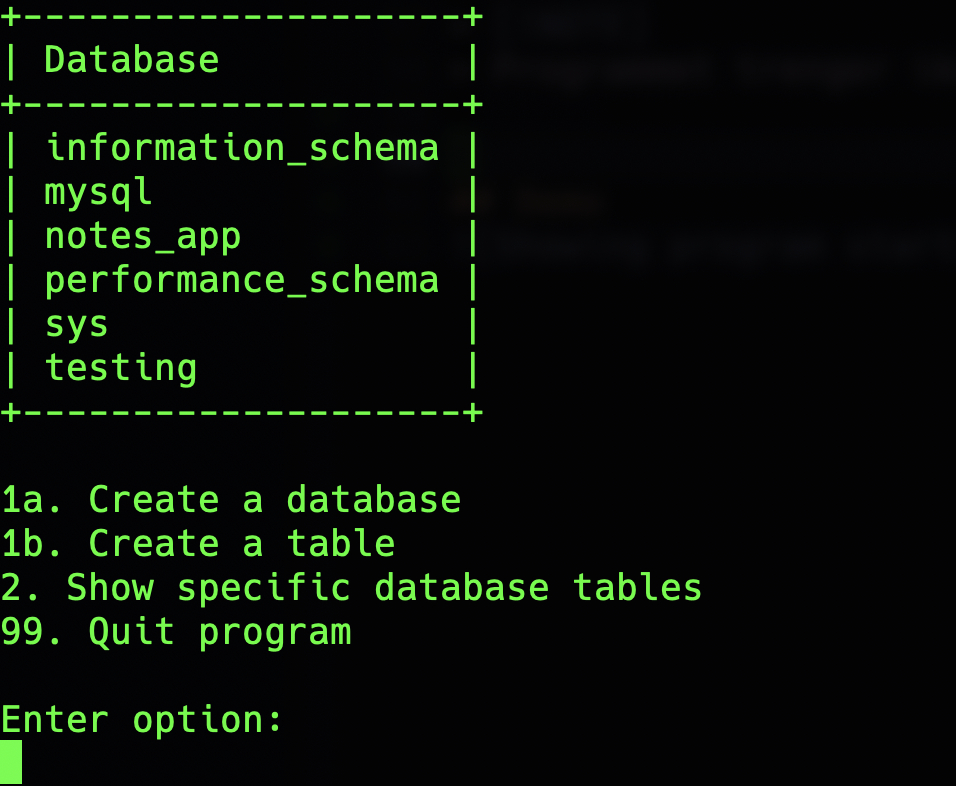
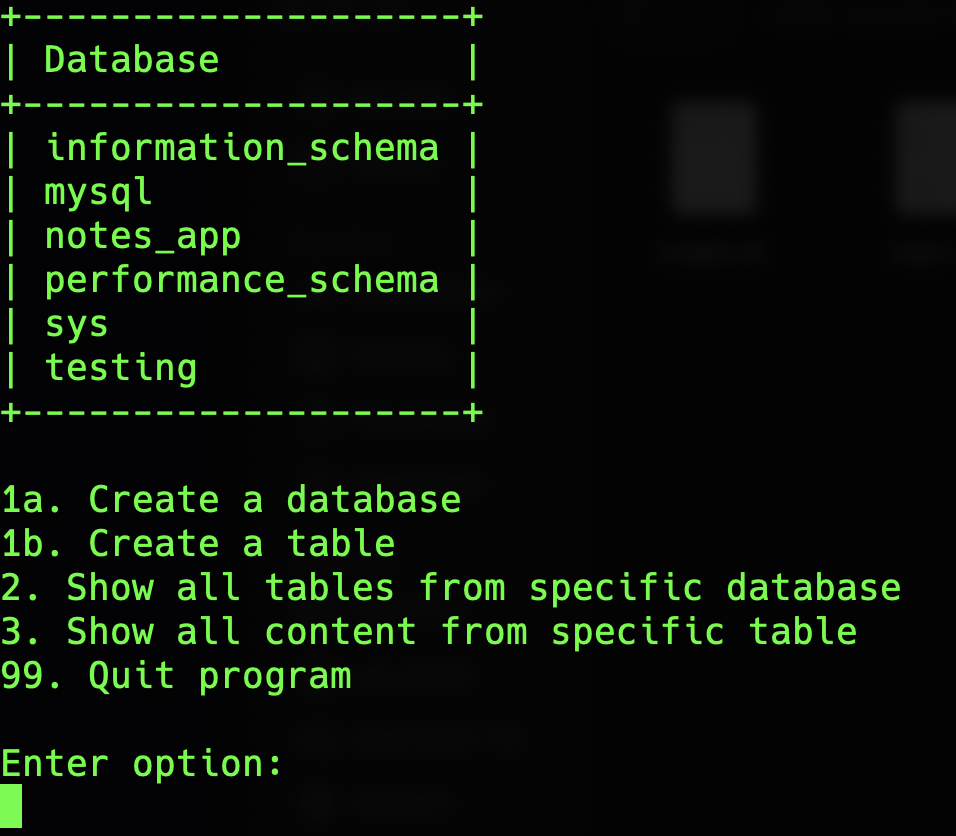
feat(vis alt fra tabell): legg til, oppdater program start bilde, og andre
Andre
Bruk `sudo mariadb -D db...` istedenfor `...USE db...` - feil rett

diff --git a/README.md b/README.md
@@ -1,5 +1,5 @@
 # Mariadb Create Helper
-Reduser tid brukt på legging av ny databaser og kanskje testing av tabell legging.
+Reduser tid brukt på legging og visning av både ny og eksisterende databaser og tabeller og kanskje testing av tabell legging.
 
 
 ## Kjøring Requirements
